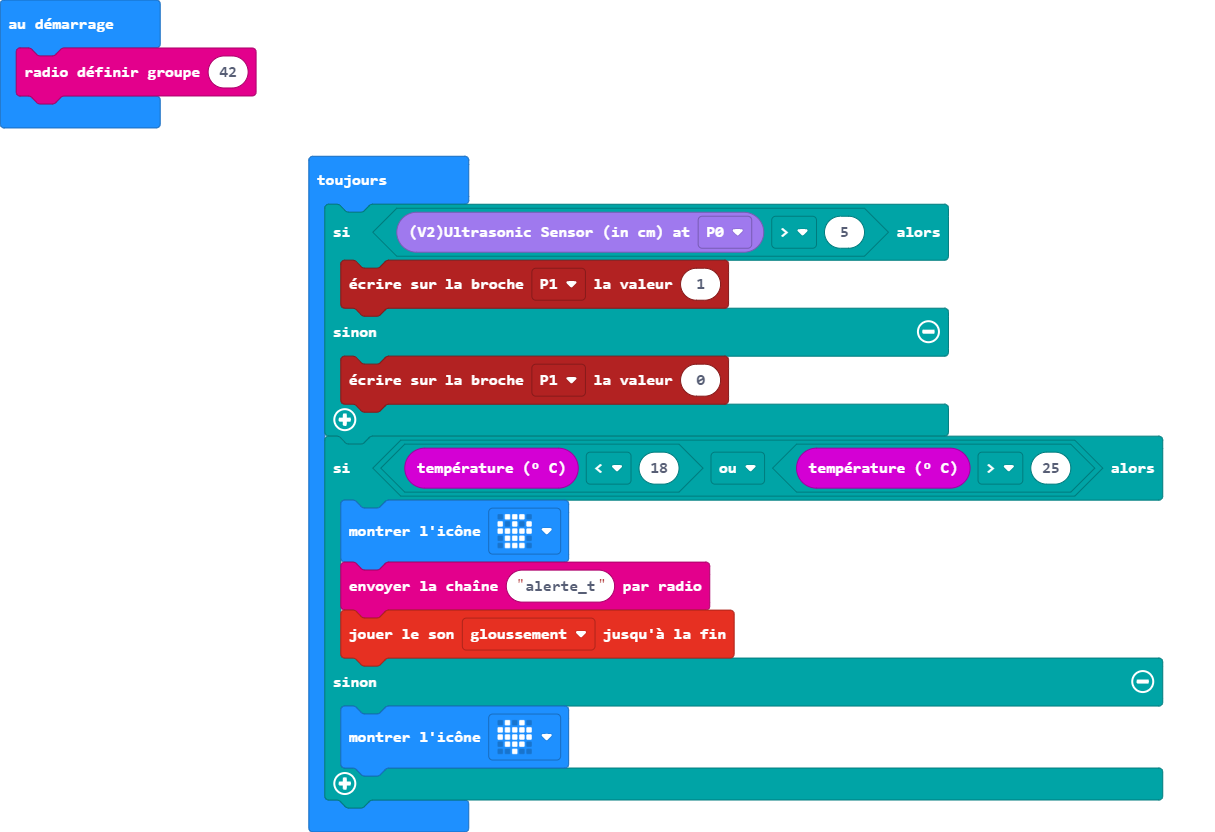
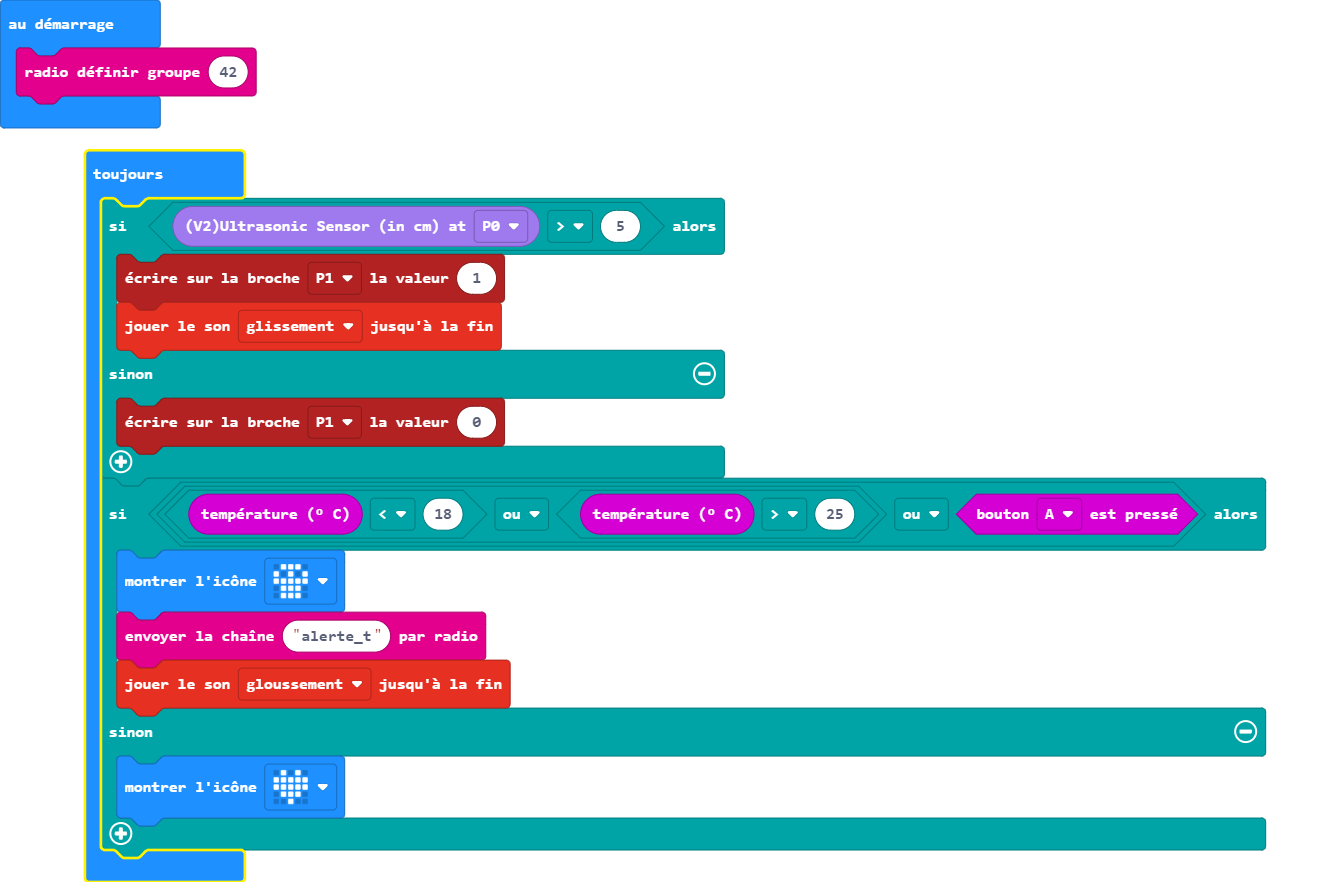
Mise à jour main.blocks, main.ts

diff --git a/main.ts b/main.ts
@@ -7,10 +7,11 @@ radio.setGroup(42)
 basic.forever(function () {
     if (grove.measureInCentimetersV2(DigitalPin.P0) > 5) {
         pins.digitalWritePin(DigitalPin.P1, 1)
+        soundExpression.slide.playUntilDone()
     } else {
         pins.digitalWritePin(DigitalPin.P1, 0)
     }
-    if (input.temperature() < 18 || input.temperature() > 25) {
+    if (input.temperature() < 18 || input.temperature() > 25 || input.buttonIsPressed(Button.A)) {
         basic.showIcon(IconNames.Skull)
         radio.sendString("alerte_t")
         soundExpression.giggle.playUntilDone()
